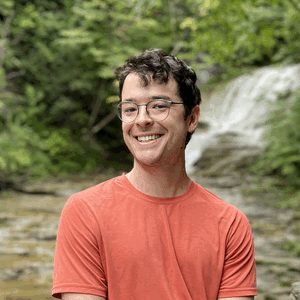
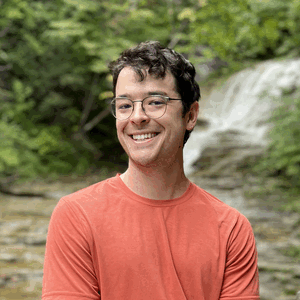
update text and picture

diff --git a/irahorecka/templates/main/index.html b/irahorecka/templates/main/index.html
@@ -9,7 +9,7 @@
   <div class="mt-6 space-y-6 text-base leading-7 text-gray-500">
     <p>
       I come from a background in biochemistry and molecular biology, with prior experience as a lab automation engineer before jumping into my PhD studies.
-      I began programming five years ago and have enjoyed it since. 
+      I began programming six years ago and have enjoyed it since. 
       When I'm not at the computer, I spend time bass fishing and refurbishing bicycles.
     </p>
     <p>

diff --git a/irahorecka/housing/routes.py b/irahorecka/housing/routes.py
@@ -30,7 +30,7 @@ def index():
     """Landing page of irahorecka.com/housing."""
     content = {
         "title": "Housing",
-        "profile_img": "me-arrow.png",
+        "profile_img": "me_arrow.png",
         "area": AREAS,
     }
     return render_template("housing/index.html", content=content)
@@ -133,7 +133,7 @@ def docs():
     """Documentation page for the housing API."""
     content = {
         "title": "API Docs: Housing",
-        "profile_img": "me-arrow.png",
+        "profile_img": "me_arrow.png",
         "docs": DOCS,
     }
     return render_template("housing/docs.html", content=content)

diff --git a/irahorecka/main/routes.py b/irahorecka/main/routes.py
@@ -33,7 +33,7 @@ def projects():
     """GitHub projects page of personal website."""
     content = {
         "title": "Projects",
-        "profile_img": "me-computing.png",
+        "profile_img": "me_computing.png",
         "repos": read_github_repos(GITHUB_REPOS),
     }
     return render_template("main/projects.html", content=content)

diff --git a/irahorecka/errors/handlers.py b/irahorecka/errors/handlers.py
@@ -59,7 +59,7 @@ def error_429(error):
     """Error: Too Many Requests"""
     content = {
         "title": "Error 429",
-        "profile_img": "hit-the-sack.jpeg",
+        "profile_img": "trevor.jpeg",
     }
     return render_template("errors/429.html", content=content), 429
 
